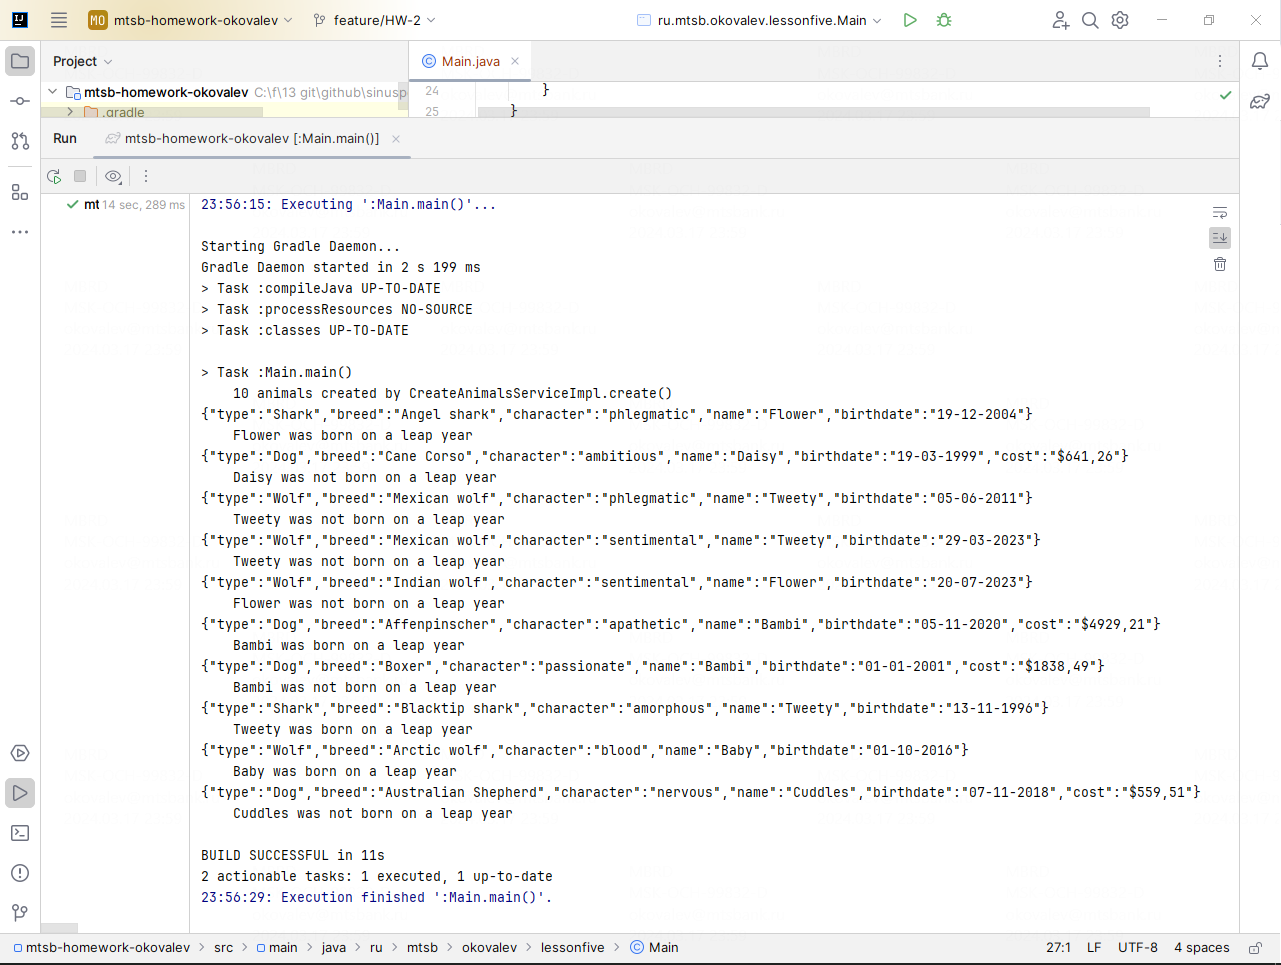
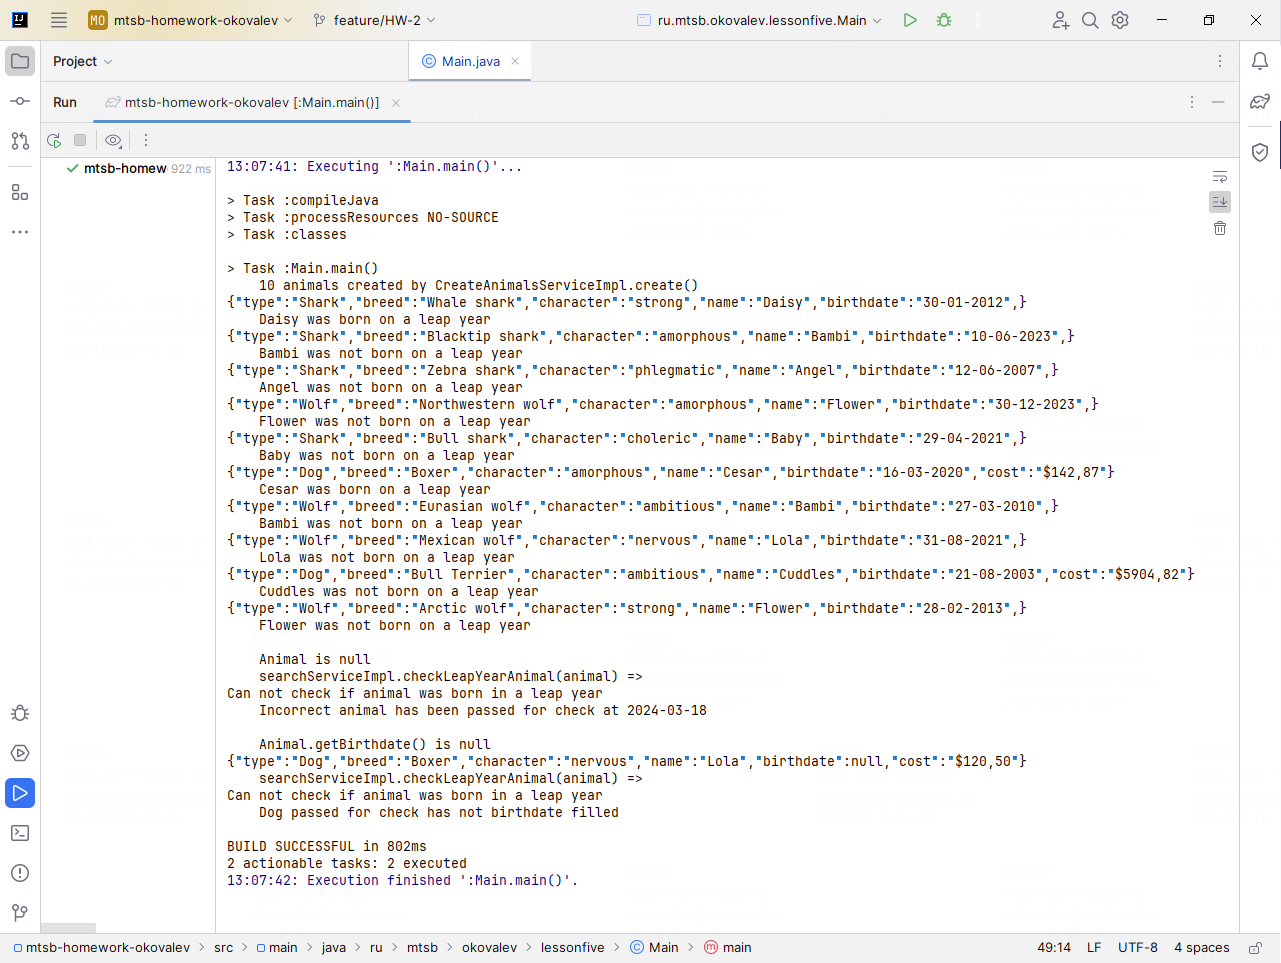
HW-2 Show exceptions in the main program

diff --git a/src/main/java/ru/mtsb/okovalev/lessonfive/Main.java b/src/main/java/ru/mtsb/okovalev/lessonfive/Main.java
@@ -4,6 +4,10 @@ import ru.mtsb.okovalev.lessonfive.exceptions.InvalidAnimalBirthdateException;
 import ru.mtsb.okovalev.lessonfive.exceptions.InvalidAnimalException;
 import ru.mtsb.okovalev.lessonthree.CreateAnimalsServiceImpl;
 import ru.mtsb.okovalev.lessonthree.animals.Animal;
+import ru.mtsb.okovalev.lessonthree.animals.Dog;
+import ru.mtsb.okovalev.lessonthree.animals.enums.AnimalCharacter;
+import ru.mtsb.okovalev.lessonthree.animals.enums.AnimalName;
+import ru.mtsb.okovalev.lessonthree.animals.enums.DogBreed;
 
 import java.util.ArrayList;
 
@@ -19,8 +23,34 @@ public class Main {
             try {
                 searchServiceImpl.checkLeapYearAnimal(animal);
             } catch (InvalidAnimalBirthdateException e) {
-                throw new InvalidAnimalException("Can not check if animal was born in a leap year");
+                throw new InvalidAnimalException("Can not check if animal was born in a leap year\n\t" +
+                        e.getMessage());
             }
+        }
+
+        System.out.println("\n\tAnimal is null" +
+                "\n\tsearchServiceImpl.checkLeapYearAnimal(animal) =>");
+        try {
+            searchServiceImpl.checkLeapYearAnimal(null);
+        } catch (InvalidAnimalException | InvalidAnimalBirthdateException e) {
+            System.out.println("Can not check if animal was born in a leap year\n\t" +
+                    e.getMessage());
+        }
+
+        Animal dog = new Dog(
+                DogBreed.BOXER.toString(),
+                AnimalCharacter.NERVOUS.toString(),
+                AnimalName.LOLA.toString(),
+                null,
+                120.50
+        );
+        System.out.println("\n\tAnimal.getBirthdate() is null\n" + dog +
+                "\n\tsearchServiceImpl.checkLeapYearAnimal(animal) =>");
+        try {
+            searchServiceImpl.checkLeapYearAnimal(dog);
+        } catch (InvalidAnimalException | InvalidAnimalBirthdateException e) {
+            System.out.println("Can not check if animal was born in a leap year\n\t" +
+                    e.getMessage());
         }
     }
 }

diff --git a/src/main/java/ru/mtsb/okovalev/lessonfive/exceptions/InvalidAnimalException.java b/src/main/java/ru/mtsb/okovalev/lessonfive/exceptions/InvalidAnimalException.java
@@ -1,7 +1,7 @@
 package ru.mtsb.okovalev.lessonfive.exceptions;
 
 /**
- * Непроверяемое исключение (unchecked exception, унаследовано от RuntimeException).
+ * Непроверяемое исключение (unchecked exception ~ унаследовано от RuntimeException).
  */
 public class InvalidAnimalException extends RuntimeException {
     /**

diff --git a/src/main/java/ru/mtsb/okovalev/lessonfive/exceptions/InvalidAnimalBirthdateException.java b/src/main/java/ru/mtsb/okovalev/lessonfive/exceptions/InvalidAnimalBirthdateException.java
@@ -1,7 +1,7 @@
 package ru.mtsb.okovalev.lessonfive.exceptions;
 
 /**
- * Проверяемое исключение (checked exception).
+ * Проверяемое исключение (checked exception ~ унаследовано от Exception).
  */
 public class InvalidAnimalBirthdateException extends Exception {
     /**
